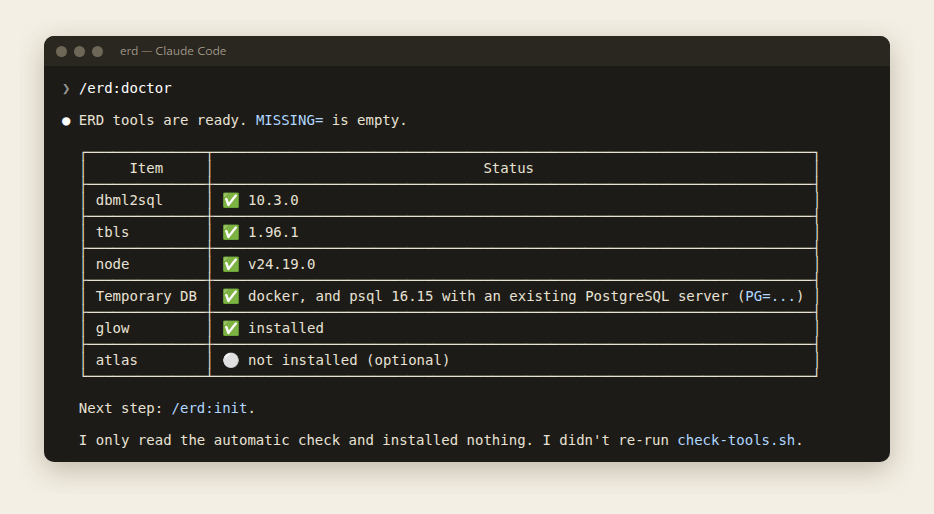
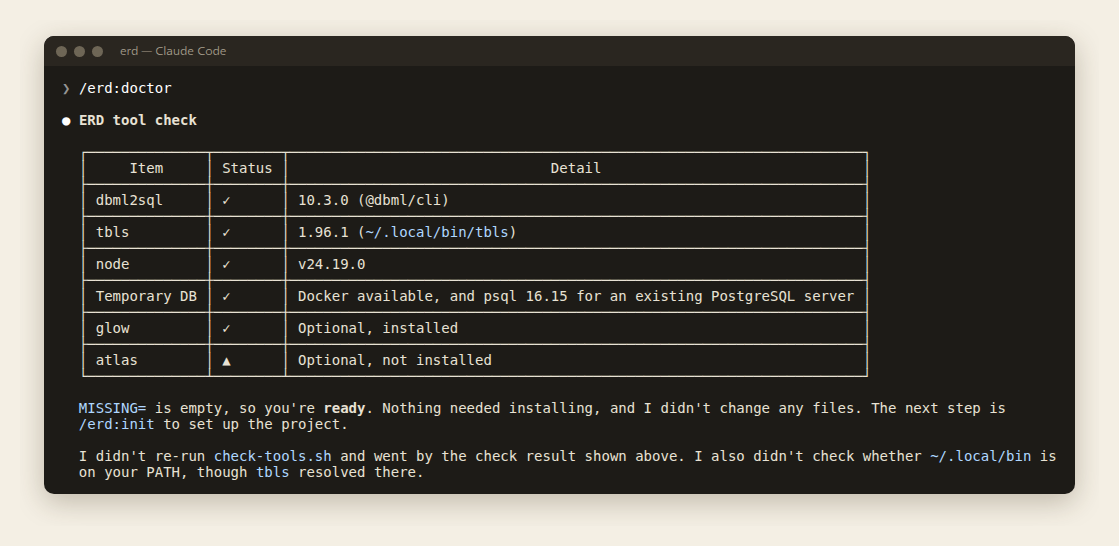
style(erd): symbols instead of emoji (0.4.1)
- Reports, review checklist, rules and script output use symbols:
  ✓ passed, ✗ missing/forbidden, ▲ warning, ✖ Critical, ● Info,
  ◇ needs confirmation, ◆ review report, ⇄ drift report
- check-tools.sh: every mark is one cell wide, so its columns line up
- Skill authoring guide and the new-plugin template follow the same rule
- /erd:doctor screenshot re-taken with the new output

Changed region(s): [[0.031, 0.0623, 0.9625, 0.9027]]

diff --git a/docs/skill-authoring.md b/docs/skill-authoring.md
@@ -27,8 +27,8 @@ dev-toolkit/
 |---|---|---|
 | 그 스킬만 쓰는 파일 (스킬 폴더 안) | `${CLAUDE_SKILL_DIR}/file` | |
 | 플러그인 공용 (`shared/`) | `${CLAUDE_PLUGIN_ROOT}/shared/...` | 플러그인 스킬에서만 치환 |
-| 루트 상대경로 (`shared/x.sh`) | ❌ | cwd 가 사용자 프로젝트라 "파일 없음" — `validate.py` 가 경고 |
-| 플러그인 밖 (`../`) | ❌ | 설치 캐시에 복사되지 않음 |
+| 루트 상대경로 (`shared/x.sh`) | ✗ | cwd 가 사용자 프로젝트라 "파일 없음" — `validate.py` 가 경고 |
+| 플러그인 밖 (`../`) | ✗ | 설치 캐시에 복사되지 않음 |
 
 ## 1. description — 트리거 정확도와 상시 비용
 
@@ -69,7 +69,7 @@ description: >
 |---|---|
 | 사용자 프로젝트에 설치되어 CI 에서도 도는 스크립트 | bash (**macOS 기본 bash 3.2 호환**: 연관 배열 금지) |
 | 저장소 개발 도구, JSON 조작이 많은 헬퍼 | Python 표준 라이브러리만 (`scripts/validate.py` 참고) |
-| ❌ bash 와 PowerShell 두 벌 | 기능 차이가 생긴다. Windows 지원이 필요해지면 Python 으로 일원화 |
+| ✗ bash 와 PowerShell 두 벌 | 기능 차이가 생긴다. Windows 지원이 필요해지면 Python 으로 일원화 |
 
 ### Python 헬퍼 뼈대 (외부 API 를 부르는 스킬용)
 - `urllib.request` 만 사용, 기본값은 환경변수로 덮어쓰기 (`BASE = os.environ.get("X_API_BASE", ...)`)
@@ -89,7 +89,7 @@ description: >
 | 사용자 프로젝트에 설치·작성하는 파일 | 프로젝트 설정 (`ERD_LANG=ko\|en` 같은 키) | 팀이 읽는 파일. 기존 설정은 조용히 바꾸지 않는다 |
 | 식별자(테이블·파일·id) | 항상 영어 | |
 
-- ❌ 스킬을 언어별로 두 벌 만들기 — description 이 둘 다 상시 로드되고 서로 요청을 가로챈다.
+- ✗ 스킬을 언어별로 두 벌 만들기 — description 이 둘 다 상시 로드되고 서로 요청을 가로챈다.
 - 프로젝트용 텍스트 템플릿은 `shared/templates/i18n/<ko|en>/`, 셸 스크립트 메시지는 `m "<한국어>" "<English>"` 헬퍼 한 줄로 (키 카탈로그를 따로 두지 않아 두 언어가 어긋나지 않음). 설정이 없으면 영어.
 - `rules.md` 에 언어 규칙(erd 는 R8)을 두고 각 스킬 강제 규칙 끝에 한 줄로 가리킨다.
 - 테스트는 두 언어 모두: 영어 설치 결과에 한글이 없는지(`LC_ALL=C grep $'[\xea-\xed][\x80-\xbf][\x80-\xbf]'` — BSD/GNU 공통), 한국어 메시지, 설정 없는 기존 프로젝트.
@@ -106,7 +106,8 @@ description: >
 
 - 핵심 위반 N개를 먼저 판정하고 나머지는 체크리스트로.
 - 심각도는 **조건 → 결과 표**로 정한다. 즉석 기준 금지.
-- 리포트: 대상·검사일·통과/총항목 → 🚨 Critical → ⚠ Warning → 💡 Info → 🔎 확인 필요 → ✅ 통과 → 다음 단계.
+- 리포트: 대상·검사일·통과/총항목 → ✖ Critical → ▲ Warning → ● Info → ◇ 확인 필요 → ✓ 통과 → 다음 단계.
+- 상태 표시는 이모지 대신 기호로: ✓ 통과 · ✗ 없음/금지 · ▲ 경고 · ✖ 치명 · ● 정보 · ◇ 확인 필요. 이모지는 터미널마다 폭과 모양이 달라 표가 어긋난다.
 - 모든 지적에 근거 위치(`파일:줄`). 근거가 없으면 "확인 필요".
 - 변경분만 검사하는 모드를 둔다 (원격 기준 브랜치 대비: 커밋 + 미커밋 + 새 파일).
 

diff --git a/plugins/erd/shared/references/report-templates.md b/plugins/erd/shared/references/report-templates.md
@@ -7,11 +7,11 @@
 ## §1 Review report — /erd:review
 
 ```markdown
-# 🔍 ERD review report — {unit} {scope: all | module | table | changes (base ref)}
+# ◆ ERD review report — {unit} {scope: all | module | table | changes (base ref)}
 **Target**: {unit} ({DB}, ERD_SOURCE={value})  **Checked on**: {YYYY-MM-DD}  **Passed/checked**: {n}/{m}
-**Summary**: 🚨 {c} · ⚠ {w} · 💡 {i} · 🔎 {q}
+**Summary**: ✖ {c} · ▲ {w} · ● {i} · ◇ {q}
 
-## 🚨 Critical (must fix)
+## ✖ Critical (must fix)
 ### [{ID}] {table.column} — {one-line description}
 - Evidence: `{file}:{line}` {what the code does}
 - Suggestion:
@@ -20,19 +20,19 @@
   ```
 - Impact: {migration risk / affected code}
 
-## ⚠ Warning (should fix)
+## ▲ Warning (should fix)
 (same format)
 
-## 💡 Info
+## ● Info
 - [{ID}] {one line}
 
-## 🔎 Needs confirmation
+## ◇ Needs confirmation
 - {what could not be confirmed, whom to ask and what}
 
 ## Code change suggestions
 - `{file}:{line}` {validation looser than the DB constraint, etc.}
 
-## ✅ Passed
+## ✓ Passed
 - {items among core violations C1–C5 that passed}
 
 ## Next steps
@@ -44,7 +44,7 @@ Data as of: {commit} · docs/schema {generated at}
 ## §2 Drift report — /erd:sync drift
 
 ```markdown
-# 🔀 Schema drift report — {unit}
+# ⇄ Schema drift report — {unit}
 **Compared**: {source of truth} ↔ {compared target}  **Checked on**: {YYYY-MM-DD}  **Differences**: {n}
 
 | Item | Source-of-truth side | Compared side | Suggested action |
@@ -75,26 +75,26 @@ When the user writes in Korean, replace each fixed heading/label with the Korean
 
 | English | Korean |
 |---|---|
-| `🔍 ERD review report` (§1 title) | `🔍 ERD 검수 리포트` |
+| `◆ ERD review report` (§1 title) | `◆ ERD 검수 리포트` |
 | scope `all \| module \| table \| changes (base ref)` | `전체 \| 모듈 \| 테이블 \| 변경분(기준 ref)` |
 | `Target` | `대상` |
 | `Checked on` | `검사일` |
 | `Passed/checked` | `통과/검사 항목` |
 | `Summary` | `요약` |
-| `🚨 Critical (must fix)` | `🚨 Critical (수정 필수)` |
+| `✖ Critical (must fix)` | `✖ Critical (수정 필수)` |
 | `Evidence` | `근거` |
 | `Suggestion` | `제안` |
 | `Impact` | `영향` |
-| `⚠ Warning (should fix)` | `⚠ Warning (권장 수정)` |
+| `▲ Warning (should fix)` | `▲ Warning (권장 수정)` |
 | `(same format)` | `(같은 형식)` |
-| `💡 Info` | `💡 Info` |
-| `🔎 Needs confirmation` | `🔎 확인 필요` |
+| `● Info` | `● Info` |
+| `◇ Needs confirmation` | `◇ 확인 필요` |
 | `Code change suggestions` | `코드 수정 제안` |
-| `✅ Passed` | `✅ 통과` |
+| `✓ Passed` | `✓ 통과` |
 | `Next steps` | `다음 단계` |
 | `Data as of` | `데이터 기준` |
 | `{generated at}` (in the Data as of line) | `{생성 시각}` |
-| `🔀 Schema drift report` (§2 title) | `🔀 스키마 차이 점검` |
+| `⇄ Schema drift report` (§2 title) | `⇄ 스키마 차이 점검` |
 | `Compared` | `비교` |
 | `Differences`: `{n}` | `차이`: `{n}건` |
 | table header `Item \| Source-of-truth side \| Compared side \| Suggested action` | `항목 \| 원본 쪽 \| 비교 대상 쪽 \| 조치 제안` |

diff --git a/plugins/erd/shared/references/rules.md b/plugins/erd/shared/references/rules.md
@@ -18,12 +18,12 @@
 
 ## Prohibited
 
-- ❌ Editing `docs/schema/`, `db/schema.sql`, `db/schema.generated.dbml` directly (generated files — overwritten by the next `make erd`). For a `migrations` unit, descriptions and ADR references go in `.tbls.yml` `comments:`
-- ❌ Putting a production DB address in `PG=`, `MY=`, `ERD_MIGRATE_CMD` or `tbls` arguments
-- ❌ Editing a migration file that has already been applied (committed/deployed) — add a new migration instead
-- ❌ Committing `dbml-error.log` (it is in `.gitignore`)
-- ❌ Adding a DBML `ref` to a table in another ERD unit (another DB) — mark it with a note instead (`units.md`)
-- ❌ Treating a table/column rename as a simple edit — if production data exists, present a rename migration strategy together with the affected code (grep)
-- ❌ Adding tables/columns nobody asked for "for later" — if one seems needed, only propose it
-- ❌ Substituting a similar general-purpose tool (another ERD skill, an ad-hoc script) when this plugin's script exists
-- ❌ Writing project files in a language other than the unit's `ERD_LANG` (R8)
+- ✗ Editing `docs/schema/`, `db/schema.sql`, `db/schema.generated.dbml` directly (generated files — overwritten by the next `make erd`). For a `migrations` unit, descriptions and ADR references go in `.tbls.yml` `comments:`
+- ✗ Putting a production DB address in `PG=`, `MY=`, `ERD_MIGRATE_CMD` or `tbls` arguments
+- ✗ Editing a migration file that has already been applied (committed/deployed) — add a new migration instead
+- ✗ Committing `dbml-error.log` (it is in `.gitignore`)
+- ✗ Adding a DBML `ref` to a table in another ERD unit (another DB) — mark it with a note instead (`units.md`)
+- ✗ Treating a table/column rename as a simple edit — if production data exists, present a rename migration strategy together with the affected code (grep)
+- ✗ Adding tables/columns nobody asked for "for later" — if one seems needed, only propose it
+- ✗ Substituting a similar general-purpose tool (another ERD skill, an ad-hoc script) when this plugin's script exists
+- ✗ Writing project files in a language other than the unit's `ERD_LANG` (R8)

diff --git a/plugins/erd/shared/references/review-checklist.md b/plugins/erd/shared/references/review-checklist.md
@@ -41,15 +41,15 @@ Apply the first matching row from the top. If a judgment wavers, fix the table; 
 
 | Condition | Severity |
 |---|---|
-| C1, C2 and the code actually uses that relationship | 🚨 **Critical** |
-| C3, C4 and the code has the corresponding validation/duplicate-check logic (the DB is not the last line of defense) | 🚨 **Critical** |
-| C5 (code uses a nonexistent column or a different type → possible runtime error) | 🚨 **Critical** |
-| M3 floating-point money, M4 unique conflict, X1 type mismatch | 🚨 **Critical** |
-| C2·C3·C4 but weak evidence of use in code | ⚠ **Warning** |
-| P1, P2 (performance that becomes a problem as data grows) | ⚠ **Warning** |
-| D1, D2, M1, M2, M5, A1 | ⚠ **Warning** |
-| N1, N2, N3, P3, U1 | 💡 **Info** |
-| Insufficient evidence | 🔎 **Needs confirmation** (no severity) |
+| C1, C2 and the code actually uses that relationship | ✖ **Critical** |
+| C3, C4 and the code has the corresponding validation/duplicate-check logic (the DB is not the last line of defense) | ✖ **Critical** |
+| C5 (code uses a nonexistent column or a different type → possible runtime error) | ✖ **Critical** |
+| M3 floating-point money, M4 unique conflict, X1 type mismatch | ✖ **Critical** |
+| C2·C3·C4 but weak evidence of use in code | ▲ **Warning** |
+| P1, P2 (performance that becomes a problem as data grows) | ▲ **Warning** |
+| D1, D2, M1, M2, M5, A1 | ▲ **Warning** |
+| N1, N2, N3, P3, U1 | ● **Info** |
+| Insufficient evidence | ◇ **Needs confirmation** (no severity) |
 
 For change proposals on tables holding production data, also state the migration risk (backfill, staged NOT NULL, locking).
 Proposals that conflict with project rules or ADRs are separated out as a "Rule change proposal".

diff --git a/plugins/erd/skills/doctor/SKILL.md b/plugins/erd/skills/doctor/SKILL.md
@@ -30,7 +30,7 @@ allowed-tools:
 4. Language (R8): reply in the user's language; text written into the project follows the unit's `ERD_LANG`.
 
 ## Procedure
-1. Summarize the check result above as a ✅/⚠/❌ table (keep explanations short).
+1. Summarize the check result above as a ✓/▲/✗ table (keep explanations short).
 2. If `MISSING=` is empty, say "Ready", point to the next step `/erd:init`, and stop.
 3. Action per missing tool:
 
@@ -48,7 +48,7 @@ allowed-tools:
 | Situation | Action |
 |---|---|
 | install-tools.sh fails (network, npm error) | Report the last error in the output verbatim. Retry only once |
-| Installed, but `check-tools.sh` still shows ❌ | PATH problem. Give the step 5 instructions |
+| Installed, but `check-tools.sh` still shows ✗ | PATH problem. Give the step 5 instructions |
 
 ## Checklist (before finishing)
 - [ ] On re-check, `MISSING=` is empty, or the remaining items and reasons were reported

diff --git a/plugins/erd/CHANGELOG.md b/plugins/erd/CHANGELOG.md
@@ -1,5 +1,9 @@
 # erd 플러그인 변경 이력
 
+## 0.4.1 — 이모지 대신 기호
+- 리포트·체크리스트·규칙·스크립트 출력의 이모지를 기호로: ✓ 통과, ✗ 없음/금지, ▲ 경고, ✖ Critical, ● Info, ◇ 확인 필요, ◆ 검수 리포트, ⇄ 스키마 차이 점검
+- `check-tools.sh` 출력 정렬: 기호가 모두 한 칸 폭이라 열이 맞음
+
 ## 0.4.0 — 영어 우선 + 언어 선택
 - SKILL.md 6개·참고 문서 9개·플러그인 헬퍼 스크립트를 영어 한 벌로 (description 은 영어 + 한국어 트리거 예시). 상시 토큰 약 1,076 → 약 750
 - R8 언어 규칙: 대화·리포트는 사용자 언어(한국어 라벨표로 0.3.x 양식 유지), 프로젝트에 쓰는 내용은 `ERD_LANG`, 식별자는 항상 영어

diff --git a/README.md b/README.md
@@ -6,7 +6,7 @@ A Claude Code plugin marketplace by devicki: plugins and mods for day-to-day dev
 
 | Plugin | Version | Type | What it does |
 |---|---|---|---|
-| [erd](plugins/erd) | 0.4.0 | Skills | Design, document and maintain project ERDs with DBML (source of truth) and tbls (docs, Mermaid ERD, lint). Monorepo aware. |
+| [erd](plugins/erd) | 0.4.1 | Skills | Design, document and maintain project ERDs with DBML (source of truth) and tbls (docs, Mermaid ERD, lint). Monorepo aware. |
 | [skill-spy](plugins/skill-spy) | 0.1.1 | Mod | When a turn ends, shows a toast for each skill that turn used. |
 | [teamwire](plugins/teamwire) | 0.1.3 | Mod | A live wiring diagram of your agent team, with current flowing between the lead and each member. |
 

diff --git a/CHANGELOG.md b/CHANGELOG.md
@@ -7,6 +7,7 @@
 - 새 플러그인 스캐폴드 `scripts/new-plugin.sh`, 템플릿 `templates/plugin/`
 - 스킬 작성 가이드 `docs/skill-authoring.md`
 - erd 0.3.0, 0.3.1, 0.4.0 ([plugins/erd/CHANGELOG.md](plugins/erd/CHANGELOG.md))
+- erd 0.4.1: 이모지 대신 기호 (스킬 작성 가이드에도 규칙 추가)
 - teamwire 0.1.1, skill-spy 0.1.1: 파스텔 테마, 이모지 대신 기호
 - teamwire 0.1.0: 팀 작업을 배선도 패널로 보여주는 모드 ([plugins/teamwire/CHANGELOG.md](plugins/teamwire/CHANGELOG.md))
 - skill-spy 0.1.0: 첫 모드(hooks 모듈만 있는 플러그인). `validate.py` 가 skills/commands/agents 없이 `hooks/` 만 있는 플러그인도 허용

diff --git a/plugins/erd/skills/review/SKILL.md b/plugins/erd/skills/review/SKILL.md
@@ -75,7 +75,7 @@ Exactly the `report-templates.md` §1 template, rendered in the user's language 
 | Source location not found | Mark that item "Needs confirmation"; no guessing |
 
 ## Checklist (before reporting)
-- [ ] All of C1–C5 judged (passed items go in the ✅ section)
+- [ ] All of C1–C5 judged (passed items go in the ✓ section)
 - [ ] Every finding has an evidence location
 - [ ] Severity matches the Decision table
 - [ ] Data as of line included

diff --git a/templates/plugin/skills/__SKILL__/SKILL.md b/templates/plugin/skills/__SKILL__/SKILL.md
@@ -41,7 +41,7 @@ If the request makes it clear, don't ask. Ask once only when it is ambiguous.
 ## Step 3: generate — run the helper
 1. Collected data → (if needed) JSON shaped like `schema.example.json`
 2. `bash ${CLAUDE_PLUGIN_ROOT}/shared/scripts/<helper> <in> <out>`
-3. If the script's validation output is not all ✅, report and re-run
+3. If the script's validation output is not all ✓, report and re-run
 
 ## Decision table
 | Condition | Result |

diff --git a/templates/plugin/shared/references/rules.md b/templates/plugin/shared/references/rules.md
@@ -12,5 +12,5 @@
 
 ## Prohibited
 
-- ❌ <Editing generated files directly>
-- ❌ <Running against dangerous targets (e.g. a production DB)>
+- ✗ <Editing generated files directly>
+- ✗ <Running against dangerous targets (e.g. a production DB)>
